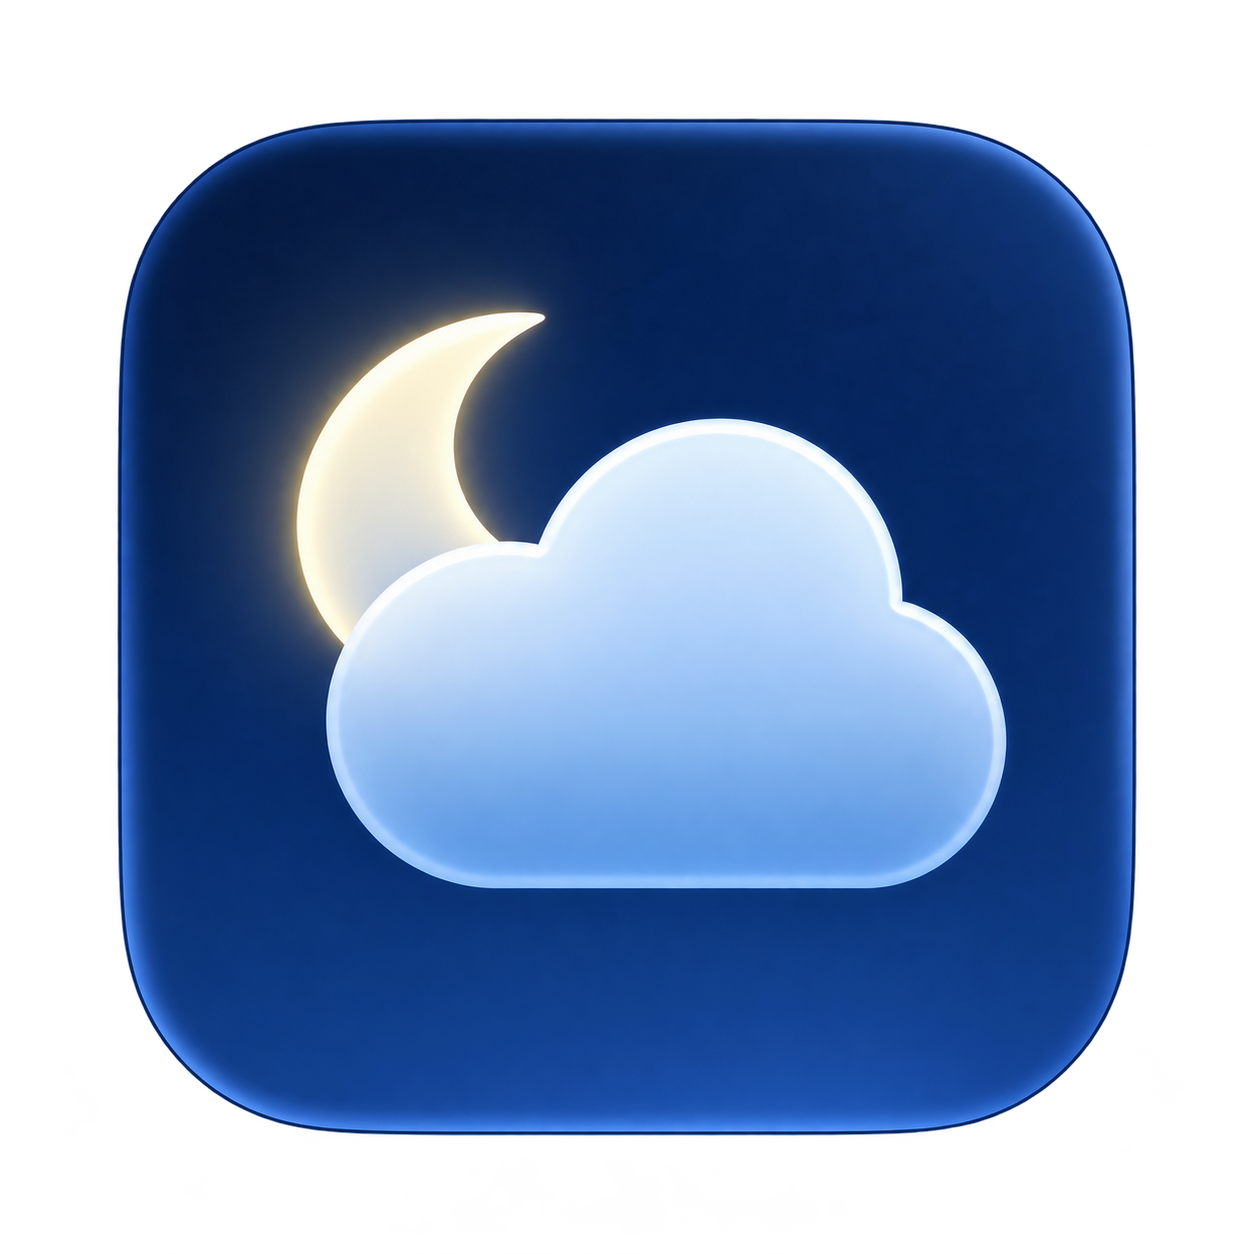
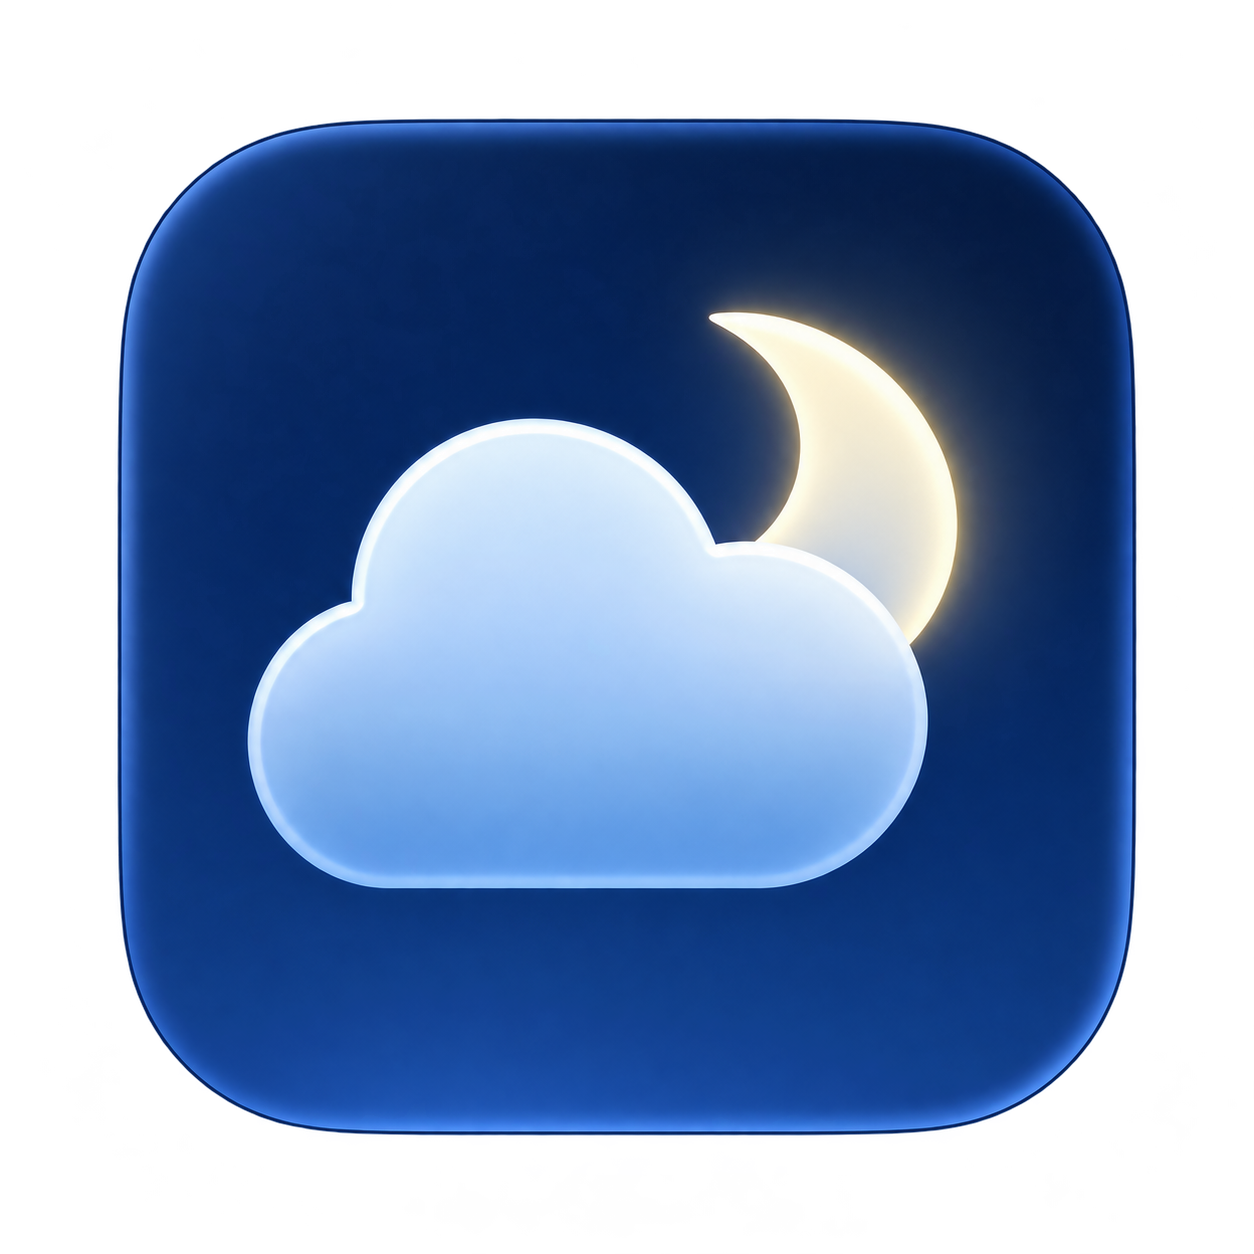
Release 0.3.9 with frosted settings and smooth playback transitions

diff --git a/Sources/NativeWallpaper/WallpaperSession.swift b/Sources/NativeWallpaper/WallpaperSession.swift
@@ -25,6 +25,12 @@ final class WeatherWallpaperSession {
     private(set) var renderedFrameCount = 0
     private var meteor: WallpaperMeteor?
     private var playbackObserver: NSKeyValueObservation?
+    private var outputItem: AVPlayerItem?
+    private var loopTransitionPending = false
+    private var hasDecodedCurrentMovie = false
+    private var loopBlend = WallpaperLoopBlend()
+    private(set) var loopTransitionCount = 0
+    private(set) var loopBlendFrameCount = 0
 
     init?(size: CGSize, scale: CGFloat, displayID: UInt32?) {
         var options: [String: Any] = ["contentsScale": scale]
@@ -96,6 +102,7 @@ final class WeatherWallpaperSession {
         meteor = WallpaperMeteor(directory: directory, metadata: manifest)
         if let meteor { root.addSublayer(meteor.layer); meteor.resize(root.bounds.size); meteor.setRate(policy.rate(at: ProcessInfo.processInfo.systemUptime)) }
         player?.pause(); player = nil; looper = nil; output = nil; playbackObserver = nil
+        outputItem = nil; loopTransitionPending = false; hasDecodedCurrentMovie = false; loopBlend.reset()
         movieURL = movie
         setImage(poster, crossfade: image != nil)
         // A weather update must never restart desktop animation.
@@ -113,6 +120,9 @@ final class WeatherWallpaperSession {
         playbackObserver = player.observe(\.currentItem, options: [.initial, .new]) { [weak self] player, _ in
             DispatchQueue.main.async { [weak self] in
                 guard let self, self.player === player, let current = player.currentItem else { return }
+                guard self.outputItem !== current else { return }
+                if self.hasDecodedCurrentMovie && self.outputItem != nil { self.loopTransitionPending = true }
+                self.outputItem = current
                 let output = AVPlayerItemVideoOutput(pixelBufferAttributes: [kCVPixelBufferPixelFormatTypeKey as String: kCVPixelFormatType_420YpCbCr10BiPlanarVideoRange])
                 current.add(output); self.output = output
             }
@@ -137,8 +147,17 @@ final class WeatherWallpaperSession {
         guard let output else { return }
         let time = output.itemTime(forHostTime: CACurrentMediaTime())
         guard output.hasNewPixelBuffer(forItemTime: time), let buffer = output.copyPixelBuffer(forItemTime: time, itemTimeForDisplay: nil) else { return }
-        let ci = CIImage(cvPixelBuffer: buffer)
+        let incoming = CIImage(cvPixelBuffer: buffer)
+        let mediaTime = CMTimeGetSeconds(time)
+        if loopTransitionPending, let image, mediaTime.isFinite {
+            loopBlend.begin(from: image, at: mediaTime)
+            loopTransitionPending = false; loopTransitionCount += 1
+            debugLog("Blending loop boundary \(loopTransitionCount)")
+        }
+        let ci = loopBlend.composite(incoming, at: mediaTime)
+        if loopBlend.isActive { loopBlendFrameCount += 1 }
         guard let frame = ciContext.createCGImage(ci, from: ci.extent, format: .RGBA16, colorSpace: CGColorSpace(name: CGColorSpace.sRGB)!) else { return }
+        hasDecodedCurrentMovie = true
         renderedFrameCount += 1
         if renderedFrameCount == 1 { debugLog("First animated frame decoded") }
         setImage(frame, crossfade: false)
@@ -157,7 +176,30 @@ final class WeatherWallpaperSession {
     }
     func stop() {
         player?.pause(); player = nil; looper = nil; output = nil
-        playbackObserver = nil; meteor?.layer.removeFromSuperlayer(); meteor = nil; stopTimer(); context.layer = nil
+        playbackObserver = nil; outputItem = nil; loopTransitionPending = false; hasDecodedCurrentMovie = false; loopBlend.reset(); meteor?.layer.removeFromSuperlayer(); meteor = nil; stopTimer(); context.layer = nil
     }
     deinit { displayTimer?.invalidate() }
+}
+
+// Blend only the loop seam. Movie time drives the fade, so unlock deceleration
+// and sleep pause the transition along with the video. The composited frame is
+// also the snapshot: switching to a still desktop cannot reveal a raw frame.
+struct WallpaperLoopBlend {
+    let duration: Double = 1
+    private var outgoing: CIImage?
+    private var start: Double = 0
+    var isActive: Bool { outgoing != nil }
+    mutating func begin(from image: CGImage, at mediaTime: Double) {
+        outgoing = CIImage(cgImage: image); start = mediaTime
+    }
+    mutating func reset() { outgoing = nil }
+    mutating func composite(_ incoming: CIImage, at mediaTime: Double) -> CIImage {
+        guard let outgoing else { return incoming }
+        guard mediaTime.isFinite else { return outgoing }
+        let progress = max(0, min(1, (mediaTime - start) / duration))
+        if progress >= 1 { reset(); return incoming }
+        if progress == 0 { return outgoing }
+        let eased = progress * progress * (3 - 2 * progress)
+        return outgoing.applyingFilter("CIDissolveTransition", parameters: [kCIInputTargetImageKey: incoming, kCIInputTimeKey: eased]).cropped(to: incoming.extent)
+    }
 }

diff --git a/Tests/NativeWallpaper/runtime.swift b/Tests/NativeWallpaper/runtime.swift
@@ -1,5 +1,6 @@
 import AppKit
 import AVFoundation
+import CoreImage
 
 func debugLog(_ message: String) { NSLog("%@", message) }
 func check(_ condition: @autoclosure () -> Bool, _ message: String) {
@@ -40,6 +41,27 @@ func run(for seconds: TimeInterval) { RunLoop.main.run(until: Date(timeIntervalS
             policy.update(mode: "locked", suspended: false, now: 7)
             check(policy.rate(at: 7) == 1, "wake resumes lock playback")
         }
+        // A seam starts at the exact outgoing image and converges to the new
+        // moving frame without a black/white intermediate frame. Paused movie
+        // time must preserve the blend rather than completing on wall time.
+        let context = CIContext(options: [.cacheIntermediates: false])
+        let extent = CGRect(x: 0,y: 0,width: 4,height: 4)
+        let red = CIImage(color: CIColor(red: 0.8,green: 0.1,blue: 0.1)).cropped(to: extent)
+        let blue = CIImage(color: CIColor(red: 0.1,green: 0.1,blue: 0.8)).cropped(to: extent)
+        let outgoing = context.createCGImage(red, from: extent)!
+        func pixel(_ image: CIImage) -> [UInt8] {
+            var bytes = [UInt8](repeating: 0,count: 4)
+            context.render(image, toBitmap: &bytes, rowBytes: 4, bounds: CGRect(x: 0,y: 0,width: 1,height: 1), format: .RGBA8, colorSpace: CGColorSpace(name: CGColorSpace.sRGB)!)
+            return bytes
+        }
+        var blend = WallpaperLoopBlend()
+        blend.begin(from: outgoing, at: 0)
+        let first = pixel(blend.composite(blue, at: 0))
+        check(first == pixel(CIImage(cgImage: outgoing)), "loop seam preserves the exact last frame")
+        let middle = pixel(blend.composite(blue, at: 0.5))
+        check(middle[0] > 40 && middle[2] > 40 && middle[1] < 50 && middle[3] == 255, "loop midpoint blends both frames without a brightness flash")
+        check(middle == pixel(blend.composite(blue, at: 0.5)), "paused media time preserves the seam image")
+        check(pixel(blend.composite(blue, at: 1)) == pixel(blue) && !blend.isActive, "loop blend completes and releases the outgoing frame")
         // Apple laptop/desktop panels and the user's QHD external monitor.
         let displays: [CGSize] = [CGSize(width: 2560,height: 1664),CGSize(width: 2880,height: 1864),CGSize(width: 3024,height: 1964),CGSize(width: 3456,height: 2234),CGSize(width: 4480,height: 2520),CGSize(width: 5120,height: 2880),CGSize(width: 6016,height: 3384),CGSize(width: 2560,height: 1440)]
         for display in displays {
@@ -86,7 +108,10 @@ func run(for seconds: TimeInterval) { RunLoop.main.run(until: Date(timeIntervalS
             check(session.renderedFrameCount == 0, "static desktop does no frame decoding")
             session.update(mode: "locked", suspended: false)
             run(for: 2)
+            check(session.loopTransitionCount == 0, "initial looper replica is not treated as a loop seam")
+            run(for: 17)
             check(session.renderedFrameCount > 5, "lock renders actual video frames")
+            check(session.loopTransitionCount >= 1 && session.loopBlendFrameCount > 2, "real movie loop blends across the item boundary")
             check(session.image?.bitsPerComponent == 16, "movie decoding retains precision for dark gradients")
             check(meteor == nil || meteor?.speed == 1,"meteor animates independently of weather movie timestamps")
             let meteorStart = meteor?.sublayers?.first?.animation(forKey: "meteor")?.beginTime

diff --git a/Sources/DesktopBridge.m b/Sources/DesktopBridge.m
@@ -179,30 +179,29 @@ static OSStatus restoreControls(EventHandlerCallRef next, EventRef event, void *
  [content.widthAnchor constraintEqualToAnchor:section.widthAnchor].active=YES;return section;
 }
 - (NSView *)settingsCard:(NSArray<NSView *> *)views {
- NSBox *card=[NSBox new];card.boxType=NSBoxCustom;card.titlePosition=NSNoTitle;card.cornerRadius=12;card.borderWidth=0.5;
- card.borderColor=[NSColor.separatorColor colorWithAlphaComponent:0.25];card.fillColor=NSColor.controlBackgroundColor;
- NSMutableArray<NSView *> *rows=[NSMutableArray new];
- for(NSView *view in views){
-  if(rows.count){NSBox *divider=[NSBox new];divider.boxType=NSBoxSeparator;[divider bind:NSHiddenBinding toObject:view withKeyPath:@"hidden" options:nil];[rows addObject:divider];}
-  [rows addObject:view];
- }
- NSStackView *stack=[NSStackView stackViewWithViews:rows];stack.orientation=NSUserInterfaceLayoutOrientationVertical;stack.alignment=NSLayoutAttributeLeading;stack.spacing=6;stack.translatesAutoresizingMaskIntoConstraints=NO;
- [card addSubview:stack];[NSLayoutConstraint activateConstraints:@[[stack.leadingAnchor constraintEqualToAnchor:card.leadingAnchor constant:14],[stack.trailingAnchor constraintEqualToAnchor:card.trailingAnchor constant:-14],[stack.topAnchor constraintEqualToAnchor:card.topAnchor constant:8],[stack.bottomAnchor constraintEqualToAnchor:card.bottomAnchor constant:-8]]];
- for(NSView *view in rows)[view.widthAnchor constraintEqualToAnchor:stack.widthAnchor].active=YES;
- return card;
+ // Sections use whitespace, without opaque cards or enclosing borders.
+ NSStackView *stack=[NSStackView stackViewWithViews:views];
+ stack.orientation=NSUserInterfaceLayoutOrientationVertical;stack.alignment=NSLayoutAttributeLeading;
+ stack.spacing=10;stack.detachesHiddenViews=YES;
+ for(NSView *view in views)[view.widthAnchor constraintEqualToAnchor:stack.widthAnchor].active=YES;
+ return stack;
 }
 - (void)buildSettingsWindow {
  CGFloat available=NSScreen.mainScreen.visibleFrame.size.height;
- NSPanel *window=[[NSPanel alloc] initWithContentRect:NSMakeRect(0,0,580,MIN(720,available-70)) styleMask:NSWindowStyleMaskTitled|NSWindowStyleMaskClosable|NSWindowStyleMaskMiniaturizable|NSWindowStyleMaskResizable backing:NSBackingStoreBuffered defer:NO];
- window.title=@"Configurações";window.titlebarAppearsTransparent=YES;
+ NSPanel *window=[[NSPanel alloc] initWithContentRect:NSMakeRect(0,0,580,MIN(720,available-70)) styleMask:NSWindowStyleMaskTitled|NSWindowStyleMaskClosable|NSWindowStyleMaskMiniaturizable|NSWindowStyleMaskResizable|NSWindowStyleMaskFullSizeContentView backing:NSBackingStoreBuffered defer:NO];
+ window.title=@"Configurações";window.titlebarAppearsTransparent=YES;window.titleVisibility=NSWindowTitleHidden;
  window.releasedWhenClosed=NO;window.hidesOnDeactivate=NO;window.movableByWindowBackground=YES;
- window.contentMinSize=NSMakeSize(540,480);window.backgroundColor=NSColor.windowBackgroundColor;
+ window.contentMinSize=NSMakeSize(540,480);window.opaque=NO;window.backgroundColor=NSColor.clearColor;
+ NSVisualEffectView *material=[NSVisualEffectView new];material.material=NSVisualEffectMaterialHUDWindow;
+ material.blendingMode=NSVisualEffectBlendingModeBehindWindow;material.state=NSVisualEffectStateActive;
+ material.autoresizingMask=NSViewWidthSizable|NSViewHeightSizable;window.contentView=material;
  window.collectionBehavior=NSWindowCollectionBehaviorMoveToActiveSpace|NSWindowCollectionBehaviorFullScreenAuxiliary;
  NSScrollView *scroll=[NSScrollView new];scroll.hasVerticalScroller=YES;scroll.autohidesScrollers=YES;scroll.drawsBackground=NO;scroll.borderType=NSNoBorder;
- window.contentView=scroll;
+ scroll.translatesAutoresizingMaskIntoConstraints=NO;[material addSubview:scroll];
+ [NSLayoutConstraint activateConstraints:@[[scroll.leadingAnchor constraintEqualToAnchor:material.leadingAnchor],[scroll.trailingAnchor constraintEqualToAnchor:material.trailingAnchor],[scroll.topAnchor constraintEqualToAnchor:material.safeAreaLayoutGuide.topAnchor],[scroll.bottomAnchor constraintEqualToAnchor:material.bottomAnchor]]];
  WeatherSettingsDocument *document=[WeatherSettingsDocument new];document.translatesAutoresizingMaskIntoConstraints=NO;scroll.documentView=document;
  [NSLayoutConstraint activateConstraints:@[[document.leadingAnchor constraintEqualToAnchor:scroll.contentView.leadingAnchor],[document.trailingAnchor constraintEqualToAnchor:scroll.contentView.trailingAnchor],[document.topAnchor constraintEqualToAnchor:scroll.contentView.topAnchor],[document.widthAnchor constraintEqualToAnchor:scroll.contentView.widthAnchor]]];
- NSStackView *stack=[NSStackView new];stack.orientation=NSUserInterfaceLayoutOrientationVertical;stack.alignment=NSLayoutAttributeLeading;stack.spacing=12;stack.translatesAutoresizingMaskIntoConstraints=NO;[document addSubview:stack];
+ NSStackView *stack=[NSStackView new];stack.orientation=NSUserInterfaceLayoutOrientationVertical;stack.alignment=NSLayoutAttributeLeading;stack.spacing=18;stack.translatesAutoresizingMaskIntoConstraints=NO;[document addSubview:stack];
  [NSLayoutConstraint activateConstraints:@[[stack.leadingAnchor constraintEqualToAnchor:document.leadingAnchor constant:20],[stack.trailingAnchor constraintEqualToAnchor:document.trailingAnchor constant:-20],[stack.topAnchor constraintEqualToAnchor:document.topAnchor constant:16],[stack.bottomAnchor constraintEqualToAnchor:document.bottomAnchor constant:-16]]];
  void(^add)(NSView *)=^(NSView *view){[stack addArrangedSubview:view];[view.widthAnchor constraintEqualToAnchor:stack.widthAnchor].active=YES;};
  self.settingsCity=[self settingsLabel:@"" size:20 weight:NSFontWeightSemibold];

diff --git a/Tests/NativeWallpaper/modes.m b/Tests/NativeWallpaper/modes.m
@@ -20,7 +20,13 @@ static void require(BOOL result,NSString *message){if(!result){NSLog(@"FAIL: %@"
    require(self.wallpaper==continuous && [[self.desktopBridge valueForKey:@"wallpaper"] boolValue]==continuous,@"desktop window mode");
    require(self.paused!=continuous && [self.scene isPlaying]==continuous,@"renderer starts and stops");
    require([[[self.desktopBridge valueForKey:@"qualityCard"] valueForKey:@"hidden"] boolValue]!=continuous,@"quality visibility");
-   if(continuous){[self togglePause];require(![self.scene isPlaying],@"pause animation");[self togglePause];require([self.scene isPlaying],@"resume animation");}
+   if(continuous){
+    self.publishedScene=[self sceneMetadata];self.publishedDate=NSDate.date;
+    UIView *runningView=self.weatherView;id runningScene=self.scene;
+    WWShootingStarLayer *runningMeteor=WWShootingStarForView(runningView);
+    [self applyWeather];[self applyWeather];
+    require(self.weatherView==runningView && self.scene==runningScene && WWShootingStarForView(self.weatherView)==runningMeteor,@"unchanged weather refresh preserves the running simulation and meteor clock");
+    [self togglePause];require(![self.scene isPlaying],@"pause animation");[self togglePause];require([self.scene isPlaying],@"resume animation");}
    else require(![[[self.desktopBridge valueForKey:@"window"] valueForKey:@"visible"] boolValue],@"economic render window hidden");
   }
   require([[[self.desktopBridge valueForKey:@"settingsWindow"] valueForKey:@"visible"] boolValue],@"settings remain visible");

diff --git a/Scripts/make-icon.m b/Scripts/make-icon.m
@@ -11,8 +11,6 @@ int main(int argc, char **argv) {
    NSBitmapImageRep *bitmap=[[NSBitmapImageRep alloc] initWithBitmapDataPlanes:NULL pixelsWide:size pixelsHigh:size bitsPerSample:8 samplesPerPixel:4 hasAlpha:YES isPlanar:NO colorSpaceName:NSDeviceRGBColorSpace bytesPerRow:0 bitsPerPixel:0];
    [NSGraphicsContext saveGraphicsState];
    [NSGraphicsContext setCurrentContext:[NSGraphicsContext graphicsContextWithBitmapImageRep:bitmap]];
-   NSAffineTransform *mirror=[NSAffineTransform transform];
-   [mirror translateXBy:size yBy:0];[mirror scaleXBy:-1 yBy:1];[mirror concat];
    [source drawInRect:NSMakeRect(0,0,size,size) fromRect:NSZeroRect operation:NSCompositingOperationCopy fraction:1 respectFlipped:NO hints:@{NSImageHintInterpolation:@(NSImageInterpolationHigh)}];
    [NSGraphicsContext restoreGraphicsState];
    NSString *name=[NSString stringWithFormat:@"icon_%@x%@%@.png",dimension,dimension,scale==2 ? @"@2x" : @""];

diff --git a/Sources/NativeWallpaper/PrototypeHost.m b/Sources/NativeWallpaper/PrototypeHost.m
@@ -69,7 +69,10 @@
  if(!self.appeared)return;
  if(self.exporter.busy || self.preparingExport){self.exportPending=YES;return;}
  NSDictionary *metadata=[self sceneMetadata];
- if(!WWNeedsNewScene(self.publishedScene,metadata,self.publishedDate ? -self.publishedDate.timeIntervalSinceNow : INFINITY)){if(self.continuousWallpaperEnabled)[super applyWeather];return;}
+ // Keep the live simulation (and its random particle positions) running when
+ // only the clock/temperature changed. Rebuilding here caused a blink on every
+ // one-minute automatic tick, even though no new sky was needed.
+ if(!WWNeedsNewScene(self.publishedScene,metadata,self.publishedDate ? -self.publishedDate.timeIntervalSinceNow : INFINITY))return;
  self.paused=NO;[super applyWeather];
  if(!self.weatherView || !self.scene)return;
  // Match capture cadence; the exporter retains the drawable’s Retina pixels.

diff --git a/Assets/AppIcon-Night.md b/Assets/AppIcon-Night.md
@@ -6,4 +6,4 @@ Prompt inicial: preserve the Apple Weather-style rounded-square silhouette, padd
 
 Prompt final: Precise production icon cleanup edit of this macOS nighttime weather icon. Preserve exactly the crescent moon and foreground cloud shapes, positions, glass material, overall rounded-square tile shape and margins. Make the tile background a MUCH DARKER midnight navy smooth uniform gradient (top #08142f, bottom #142f62). No mottling or cloudy patches in the background. The tile rim must be subtle navy blue, not bright electric cyan. Critical alpha cleanup: remove ALL blue/cyan speckles and stray pixels outside the rounded-square tile. Exterior must be perfectly clean fully transparent alpha zero, a smooth antialiased tile boundary only. No glow bleeding past the tile, no exterior shadow, no scattered pixels, no stars, no text. Keep the pale ivory crescent and cool pale blue-white cloud polished and crisp. This is the final icon bitmap, not a mockup.
 
-A composição final é espelhada horizontalmente no gerador de iconset: Lua à direita. A transformação preserva a imagem-fonte aprovada, sem regenerar seus detalhes.
+A imagem-fonte final já está espelhada, com a Lua à direita. O gerador de iconset apenas redimensiona essa fonte, sem aplicar uma segunda inversão.

diff --git a/Sources/NativeWallpaper/README.md b/Sources/NativeWallpaper/README.md
@@ -34,3 +34,5 @@ Run `Scripts/test-native-prototype.sh` for scene publication, weather update pol
 Clear night skies fade gently toward the horizon without fully removing corner stars. Lunar phase textures are derived locally at their original 400 × 400 resolution from the installed Weather assets, attenuating their halo. Desktop tuning reduces lunar surface brightness, bright-star count and bloom while preserving native twinkle timing. The spawn-shape adjustment keeps lunar occlusion in its native coordinate space. The app does not bundle or modify system textures.
 
 Display geometry, supported pixel sizes and the 0.3.3 rendering adjustments are documented in [Docs/Displays.md](../../Docs/Displays.md). The source Metal surface and poster are not HDR; Main10 avoids a further 8-bit decode stage in native video playback. The decorative nebula atlas is disabled to prevent broad color patches.
+
+Loop seams are dissolved over one second of movie time using the last displayed frame and incoming moving frames. The snapshot uses the same composited image, and pausing/deceleration preserves the transition state. Initial queue setup is not treated as a loop boundary.

diff --git a/README.md b/README.md
@@ -39,8 +39,11 @@ open "Build/Weather Wallpaper Native.app"
 
 See [native wallpaper setup, tests and limitations](Sources/NativeWallpaper/README.md). The downloadable release includes both playback modes in **Weather Wallpaper.app**. The command above builds a separate development app; `Scripts/package.sh` builds the distributable DMG and ZIP.
 
-## Novidades da versão 0.3.7
+## Novidades da versão 0.3.9
 
+- Configurações com fundo translúcido fosco e grupos sem caixas, mantendo todas as opções.
+- Transição suave na emenda do vídeo, evitando o corte direto entre o fim e o início do loop.
+- Atualizações sem mudança visual mantêm a simulação em execução, evitando reinícios a cada minuto no modo Sempre animado.
 - Estrela cadente com duração de aproximadamente meio segundo, intervalos variáveis e rastro que cresce e se desfaz, baseada nos parâmetros do Tempo. Veja a [referência da animação](Docs/Meteors.md).
 - Lua e estrelas com brilho discreto, preservando os tempos nativos de cintilação e a oclusão lunar.
 - Maior cobertura de estrelas nos cantos superiores e enquadramento da Lua adaptado à proporção da tela.
